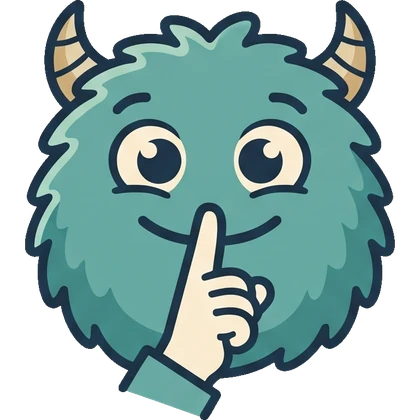
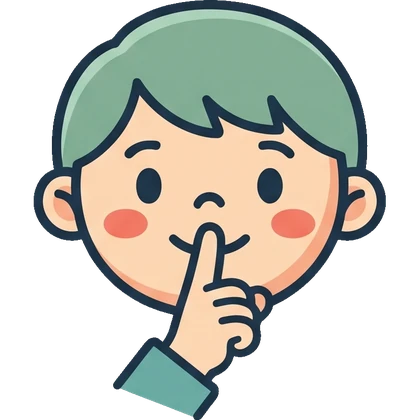
Stasjonstavla: hysj-tegnet er nå gutten
Claude-Session: https://claude.ai/code/session_014BdYtbDaTWAT9aXqoHYq2E

diff --git a/stasjoner.html b/stasjoner.html
@@ -488,8 +488,8 @@ $('sens').oninput = function(){ cfg.sens = +this.value; placeThreshold(); save()
 function placeThreshold(){ document.querySelectorAll('.meter s').forEach(function(s){ s.style.left = 'calc('+cfg.sens+'% - 2px)'; }); }
 $('micTest').onclick = function(){ startMic(); };
 
-/* ---------- eget hysj-tegn: Myntland-monster med fingeren foran munnen (fagikoner/hysj.webp) ---------- */
-var HUSH = '<img src="fagikoner/hysj.webp" alt="Hysj">';
+/* ---------- eget hysj-tegn: gutt med fingeren foran munnen (fagikoner/hysj.webp) ---------- */
+var HUSH = '<img src="fagikoner/hysj.webp?v=2" alt="Hysj">';
 $('clockHush').innerHTML = HUSH;
 $('hush').innerHTML = HUSH + '<span><b>Hysj!</b>Dyrene ble skremt. De kommer tilbake når det blir rolig.</span>';
 
